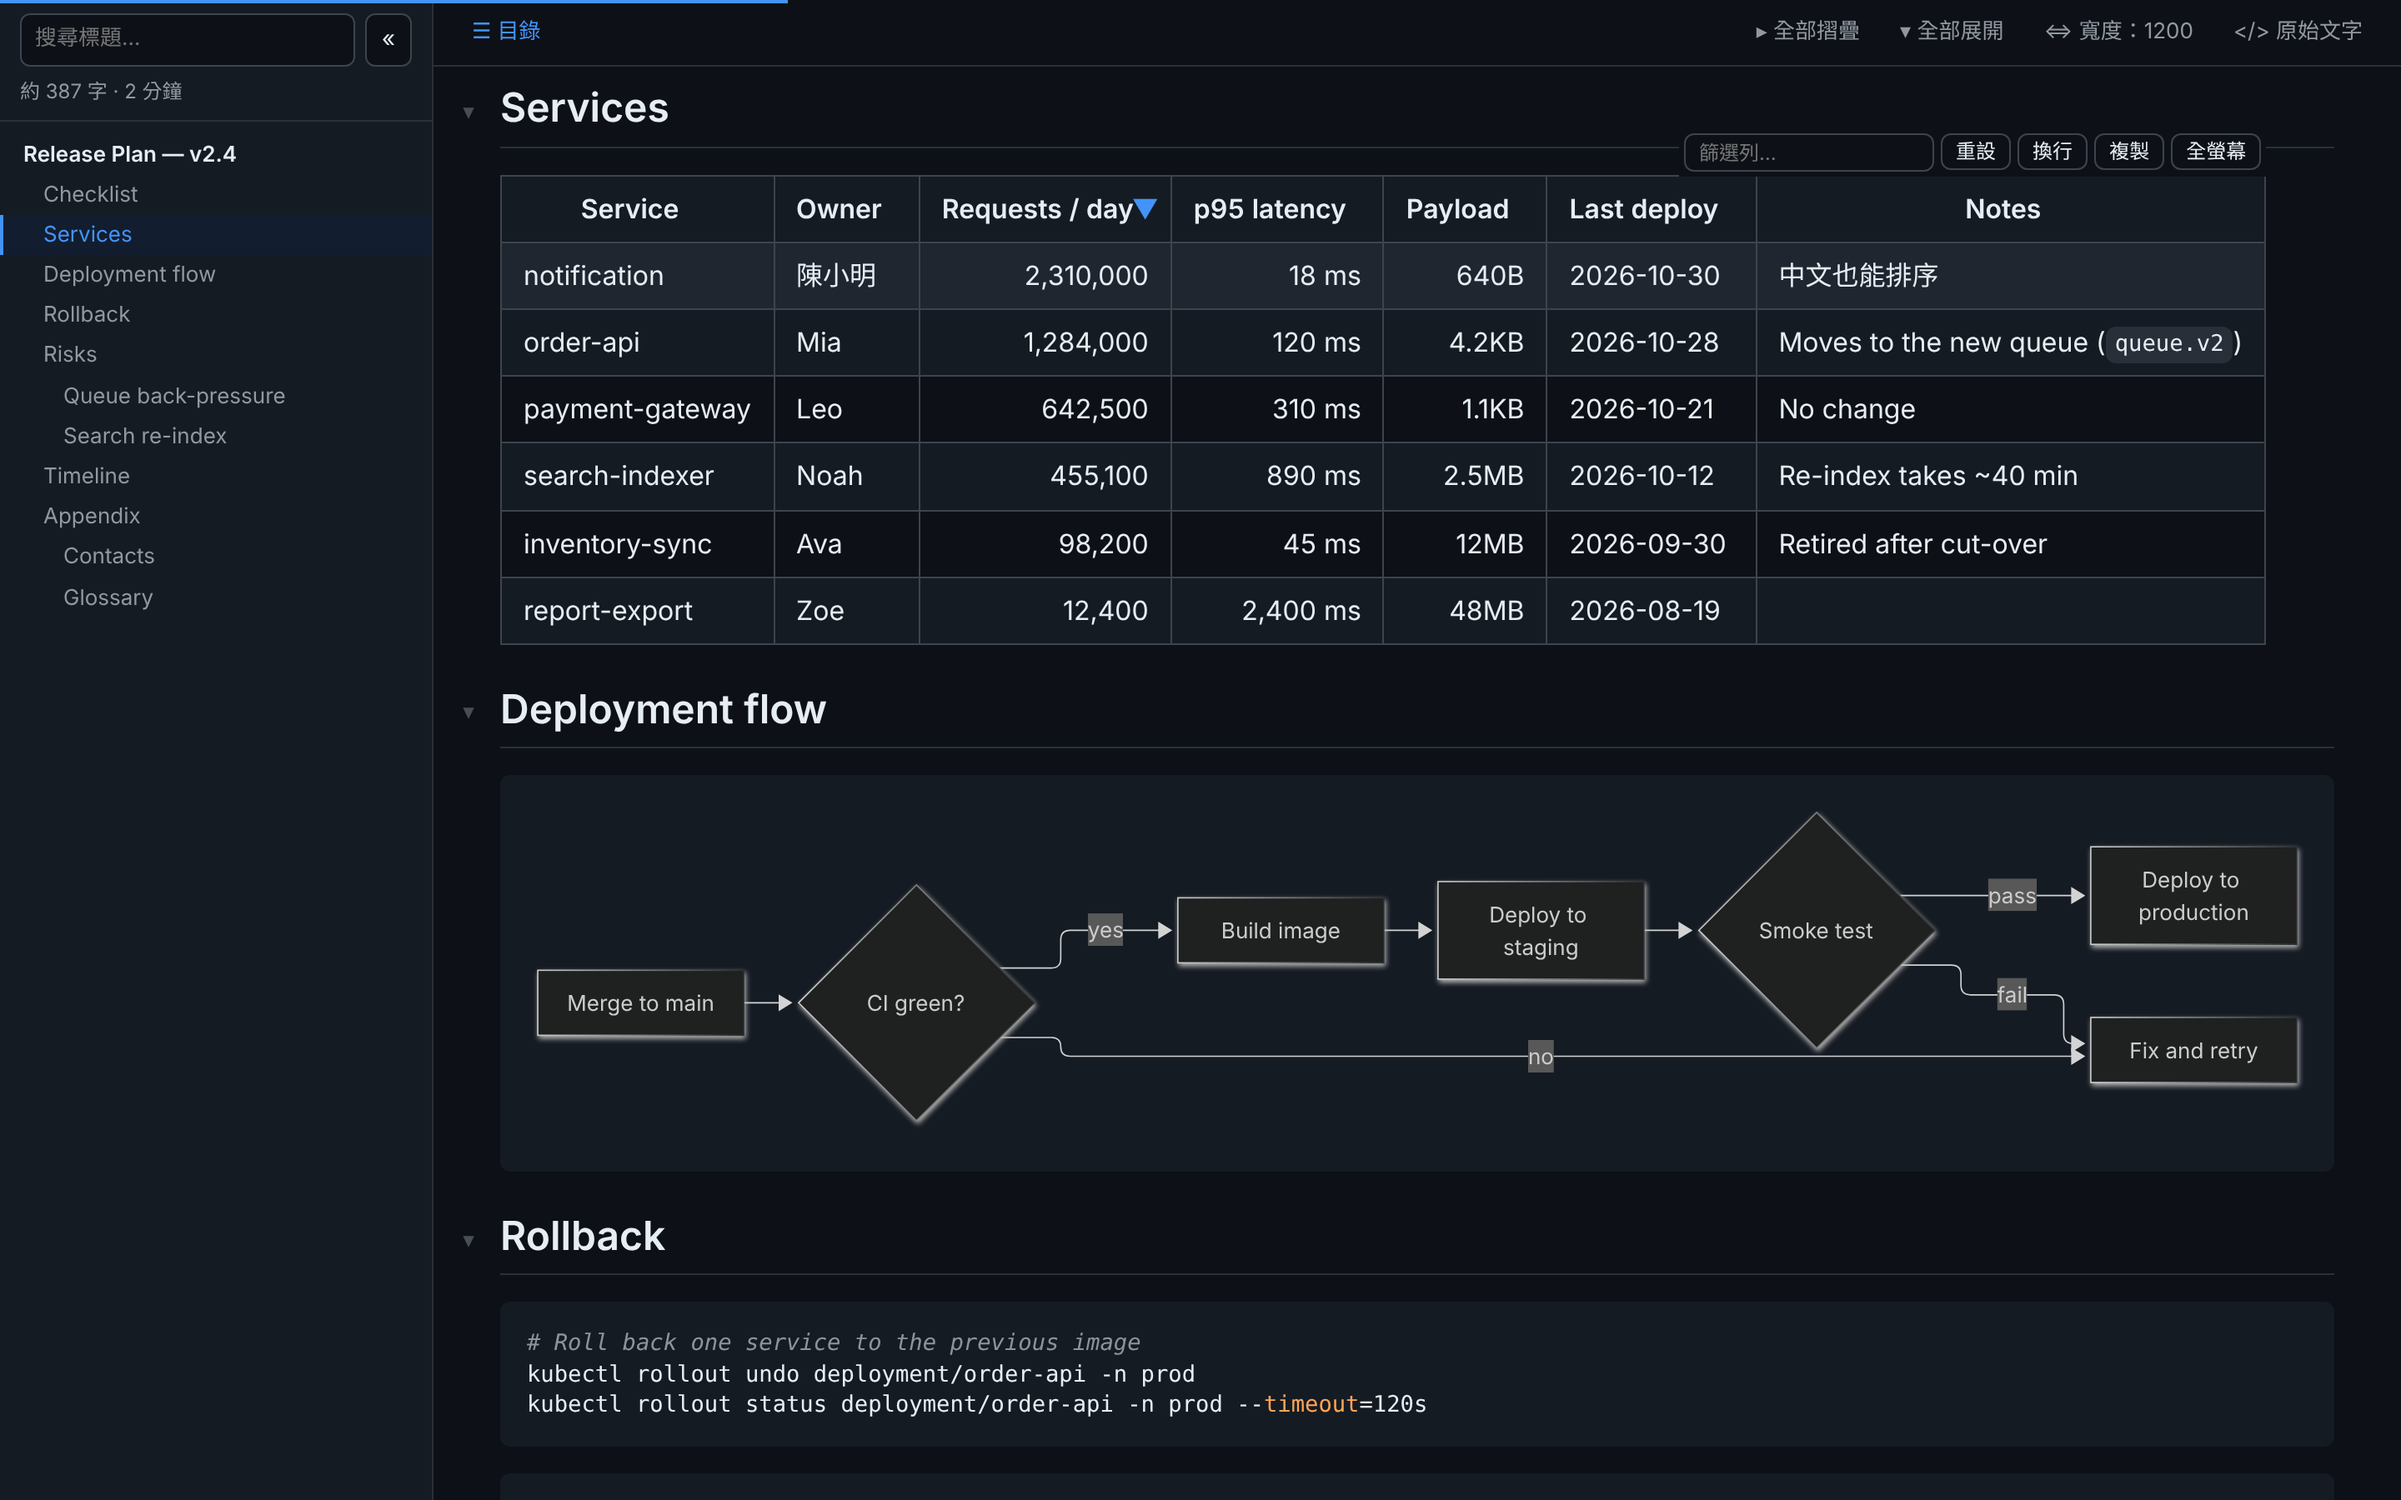
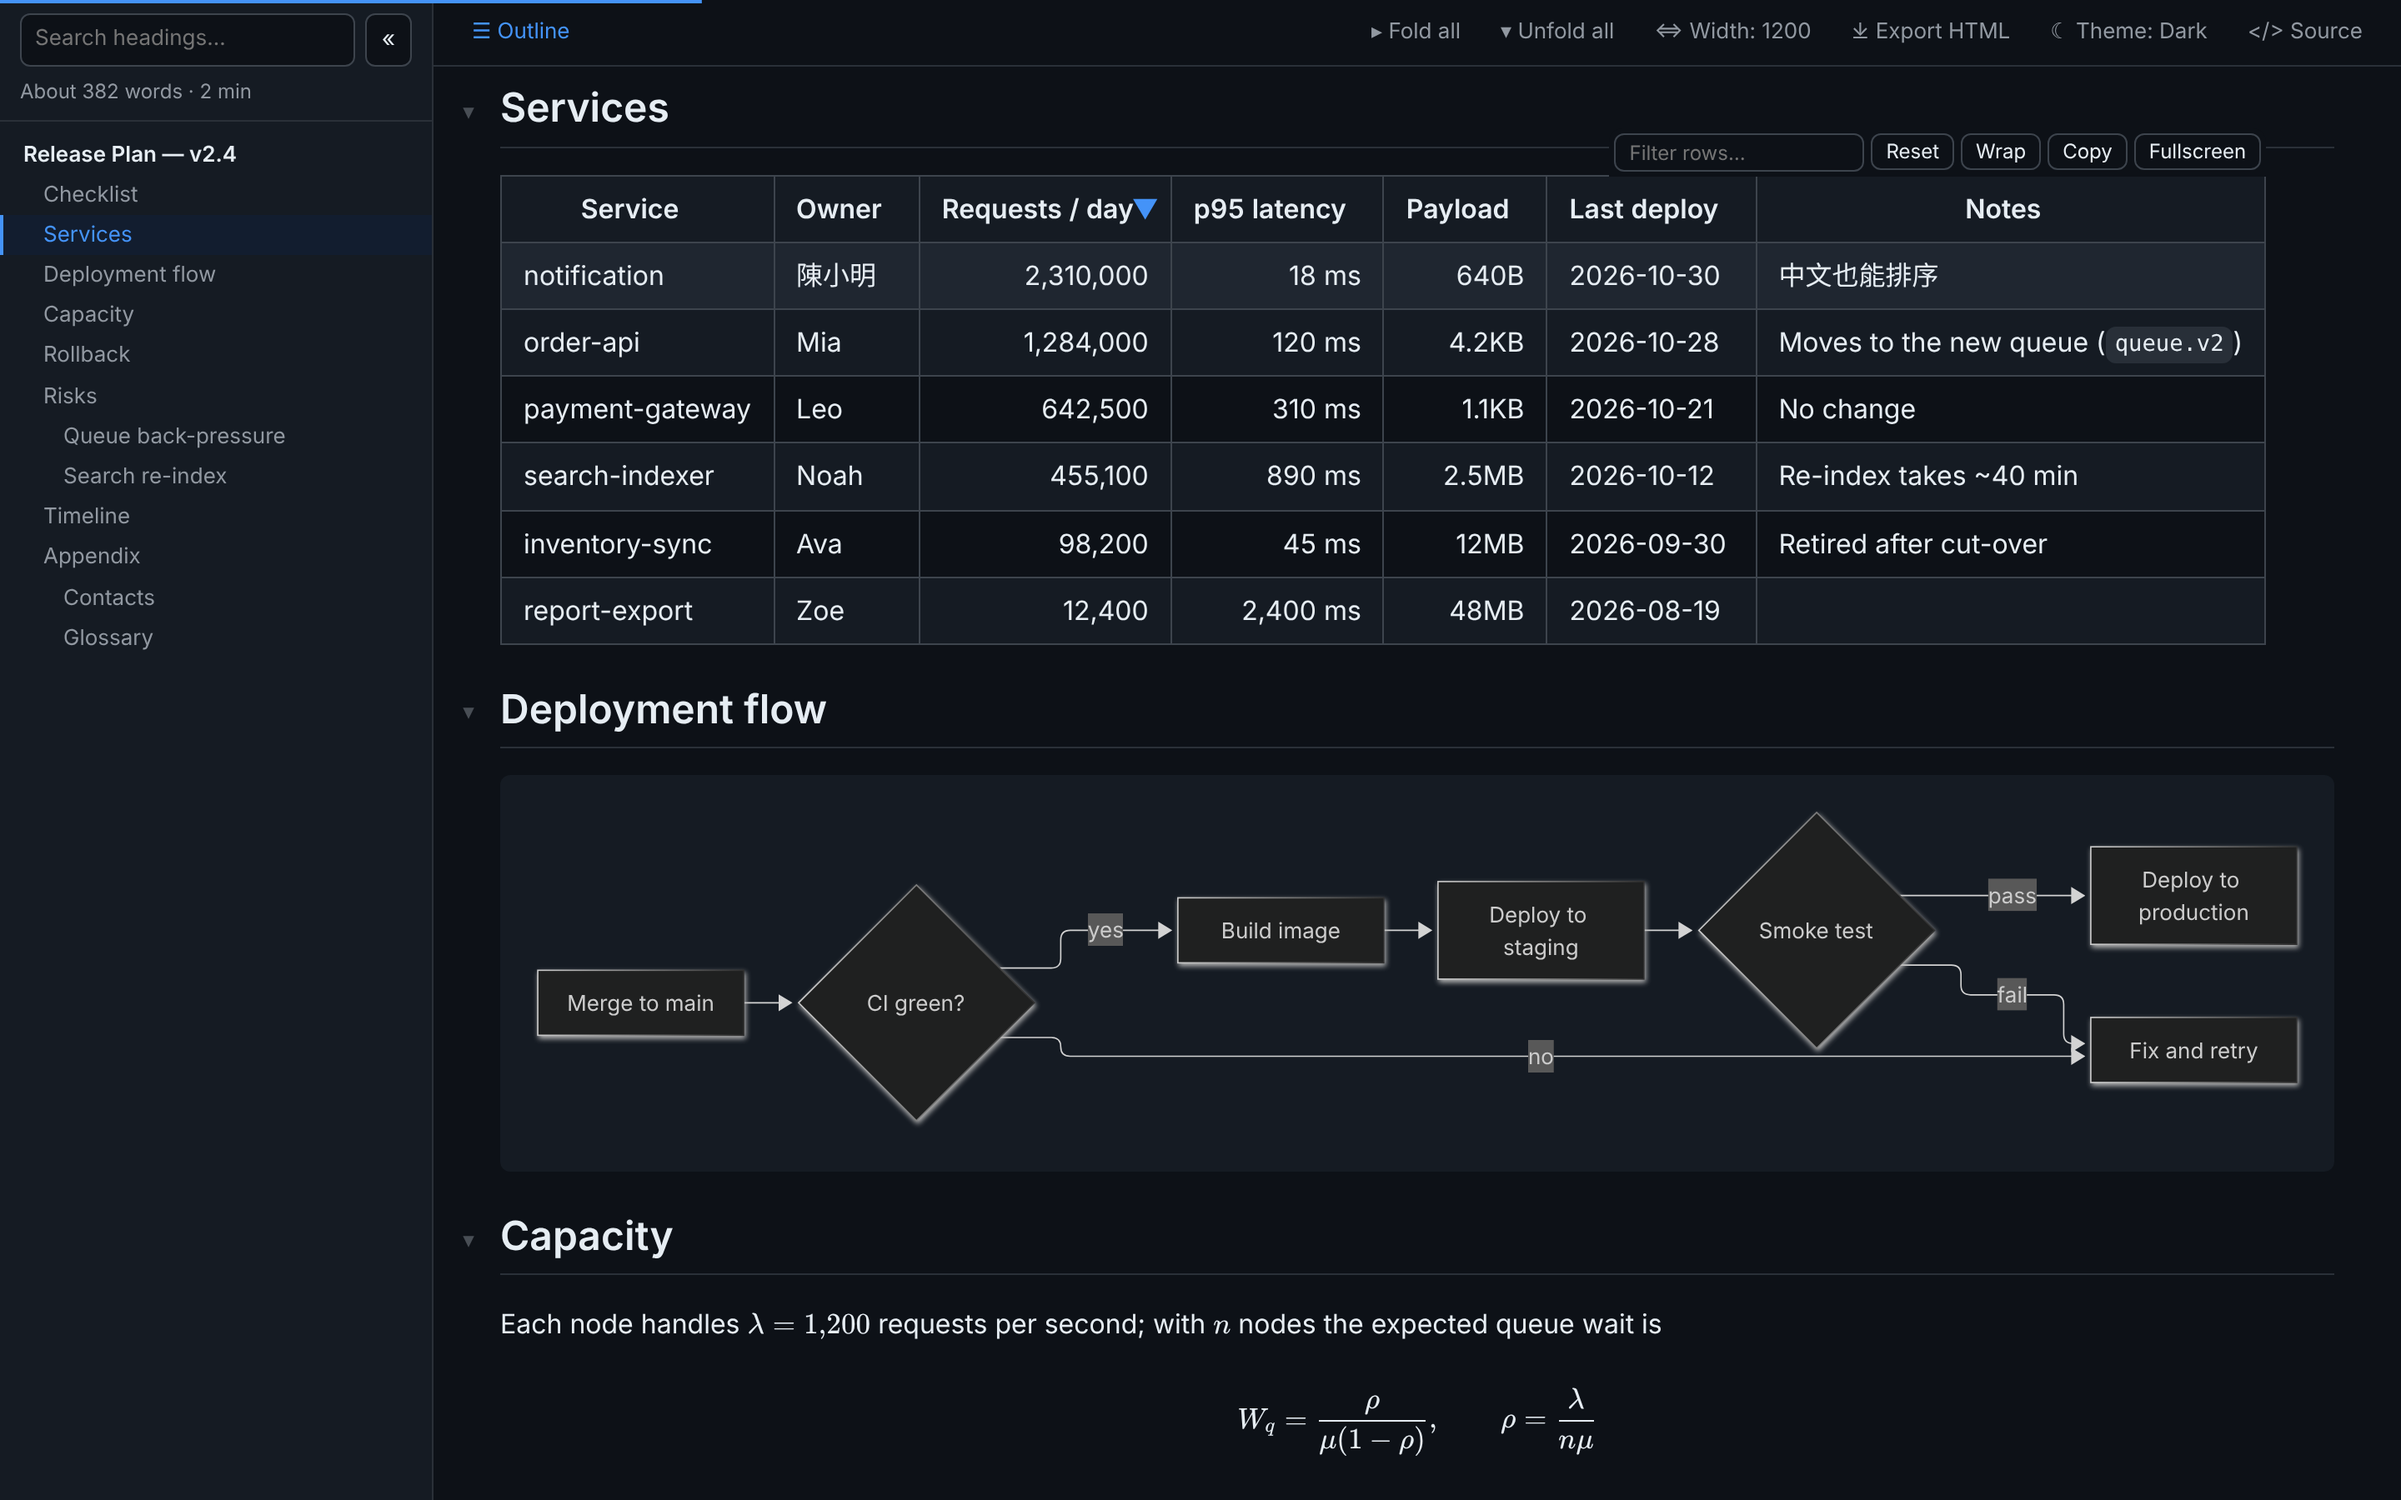
docs: README 截圖依介面語言分開，示範文件加入數學公式

diff --git a/README.zh-TW.md b/README.zh-TW.md
@@ -7,9 +7,9 @@
 
 在 Chrome / Edge 直接閱讀 `.md` 檔案的擴充功能。功能參考 [md-reader 2.x](https://github.com/md-reader/md-reader)（MIT），程式碼全部重新撰寫，目標是**可稽核、無遠端依賴、無建置流程**。
 
-![淺色主題：側邊目錄、提示框、任務清單與表格](docs/screenshots/light.png)
+![淺色主題：側邊目錄、提示框、任務清單與表格](docs/screenshots/light.zh-TW.png)
 
-![深色主題：依欄位排序的表格與表格工具列，下方是 Mermaid 圖表](docs/screenshots/dark.png)
+![深色主題：依欄位排序的表格與表格工具列，下方是 Mermaid 圖表](docs/screenshots/dark.zh-TW.png)
 
 ## 安裝
 

diff --git a/docs/demo.md b/docs/demo.md
@@ -36,6 +36,14 @@ flowchart LR
   E -->|fail| G
 ```
 
+## Capacity
+
+Each node handles $\lambda = 1{,}200$ requests per second; with $n$ nodes the expected queue wait is
+
+$$
+W_q = \frac{\rho}{\mu (1 - \rho)}, \qquad \rho = \frac{\lambda}{n \mu}
+$$
+
 ## Rollback
 
 ```bash
